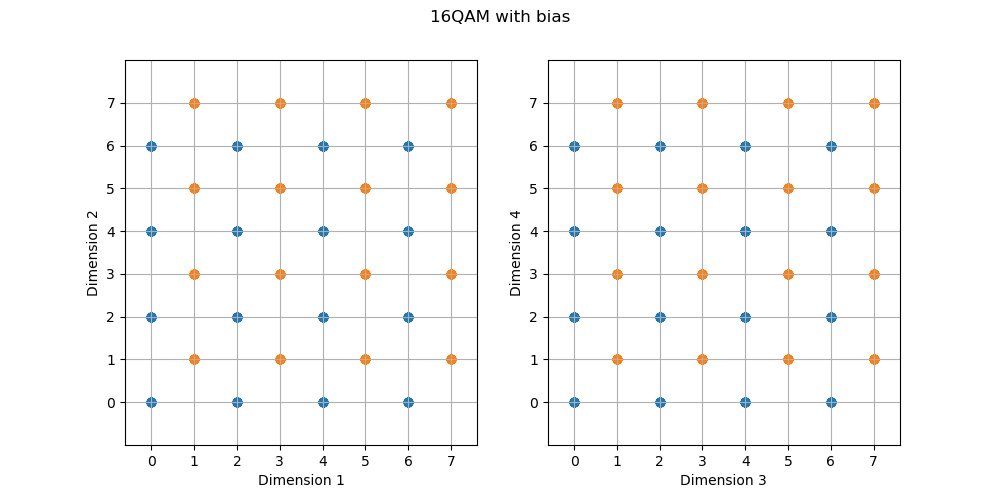
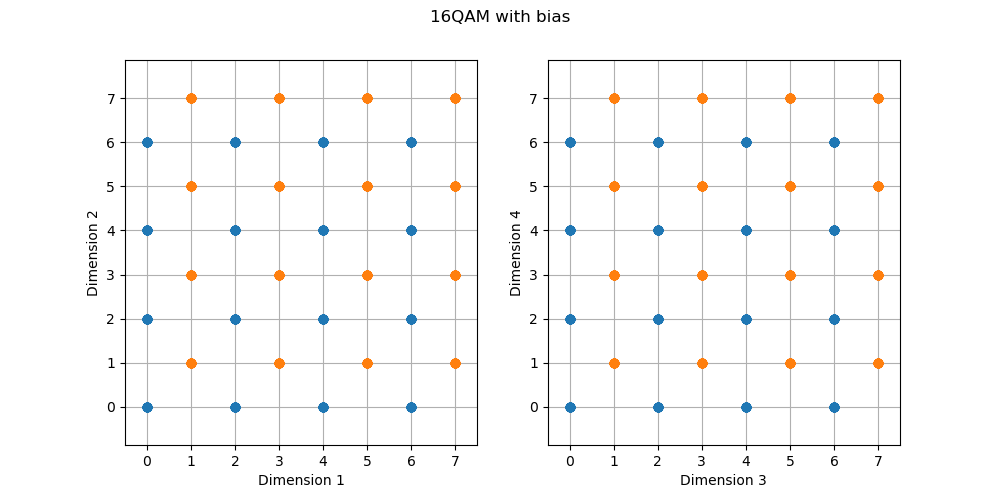
figure labels and 6D/8D figures
trying to use the [0,2) range for consistency but it makes the
calculations more annoying when you have to specify every coordinate in
terms of 1/2, will have to think how I want to do that.

Main update is the img/8d.py, adds a view of a full 8D constellation
design using different shapes/colours/sizes, it is a little hard to
understand but not terribly.

I'd like to update the 8D to have more clear indicators from each bit
instead of pairing up the bits to get two 4-way choices but can't think
of a clear way to deal yet.

diff --git a/index.html b/index.html
@@ -30,9 +30,9 @@
 <p>The second interesting result is that an inifinite lattice in 4D, each codeword has 24 nearest neighbours which is the densest possible structure in 4D. To show this result, imagine the original hypercube. The point in the middle will has all 16 vertices as nearest neighbours
  (each coordinate differs by +-1 in any combination of +s and -s) and in an extended lattice there are valid codewords by differing a single dimension by 2, so (+2,0,0,0), (-2,0,0,0), (0,+2,0,0), (0,-2,0,0), (0,0,+2,0), (0,0,-2,0), (0,0,0,+2), (0,0,0,-2) which is 8 additional</p>
 <h2>A more systematic structure for transmission</h2>
-<p>So far I've shown a structure that is good for transmission but can't easily be extended and shown the underlying 4D lattice is optimal in terms of density, but this doesn't show a clear way to extend to other constellations. Instead of using 2 different bit mappings, one using even coordinates and another using odd coordinates, instead we can use a common 'seed' mapping and use a single bit that decides whether to offset the coordinate of the codeword by (+1,+1,+1,+1). if we use 16QAM as our seed constellation we'd end up with this constellation:</p>
-<p>a<img alt="16 QAM with bias" src="./img/16qambias.png" /></p>
-<p>This would transmit 9 bits per 4 dimensions having slightly higher throughput compared to 16QAM on its own but also requires more energy. I won't analyse this structure specifically in depth but this is the first step to expanding to higher dimensions.</p>
+<p>So far I've shown a structure that is good for transmission but can't easily be extended and shown the underlying 4D lattice is optimal in terms of density, but this doesn't show a clear way to extend to other constellations. For more systematic constellation design I will only create latices that have nearest neighbour of 1 unit and use 4QAM as my 'seed' constellation. By using a 4QAM constellation and optionally shifting all 4 dimensions by 1/2 units we get a mapping that looks like this:</p>
+<p><img alt="16 QAM with bias" src="./img/pam2bias.png" /></p>
+<p>This will transmit 5 bits every 4 dimensions and every point is at least 1 unit away from any other point, either a single dimension shifting by 1 or all 4 dimensions shifting by 1/2. </p>
 <h3>Decoding</h3>
 <p>As long as the received vector is within the convex hull of the constellation it is trivial to determine which 'box' (region seperated by grid lines) the received vector is in as it is solely determined by the integer part of the vector coordinates, then we could enumerate all the valid codewords that touch that box which in the 4D case would be a red codeword and a blue codeword and then check which of those viable codewords are closer. Better decoder designs may exist but this is the approach used in my research. When a vector is outside the convex hull of the constellation currently I am brute-force checking all points in the constellation as I haven't analysed more efficient techniques yet. </p>
 <h2>extending to higher dimensions</h2>
@@ -50,27 +50,37 @@
 </ul>
 <p>which have been chosen specifically to be easy to visualize when plotting as a series of three 2D plots:</p>
 <p><img alt="thingy" src="./img/shapesin6d.png" /></p>
-<p>This could be used as a constellation of its own, effectively transmitting 2 bits every 6 dimensions, but the advantage is that this can be layered on top of existing QAM constellations like the previous examples. if we use 16QAM as our 'seed', meaning we encode 12 bits as 3 16QAM symbols and then have an additional 2 bits to bias the 6D point by one of the bias vectors we get the following constellation:</p>
-<p><img alt="6d16QAMbias" src="./img/6d16QAMbias.png" /></p>
-<p>You may notice this mapping looks a lot like 64QAM, so our 14bit/6D constellation could be interpreted as a block encoding on 18bit/6D of 64QAM with rate of 14/18=7/9. However unlike block codes that primarily use hamming distance to decode a transmitted signal this mapping is structured in a way that would allow efficient and more optimal decoding as I will demonstrate below.</p>
+<p>This could be used as a constellation of its own, effectively transmitting 2 bits every 6 dimensions, but the advantage is that this can be layered on top of existing QAM constellations like the previous examples. Using the 4QAM seed we can get a constellation such as this:</p>
+<p><img alt="6d16QAMbias" src="./img/sixDcase.png" /></p>
+<p>You may notice this mapping looks a lot like 16QAM, so our 8bit/6D constellation could be interpreted as a block encoding on 12bit/6D of 16QAM with rate of 8/12=2/3. However unlike block codes that primarily use hamming distance to decode a transmitted signal this mapping is structured in a way that would allow efficient and more optimal decoding as I will demonstrate below.</p>
 <p>For the demonstration I will use 4QAM as our seed instead of 16QAM we get a smaller constellation which can simplify the example.</p>
 <p><img alt="4QAM modulated by tetrahedrons in 6D " src="./img/4qambias6d.png" /></p>
 <p>Our transmission strategy will send 8 bits, the first 6 get mapped to each dimension individually multiplied by 2, then the last 2 are used to generate a bias vector using the above linear code and added to the coordinate found by the first 6 bits. So the message (11111100) correspond to the blue point at (3,3,3,3,3,3).</p>
 <p>So we will treat this as a 16QAM constellation with grey mapping (<strong>TODO: add binary labels to the points</strong>) 
-If our grey mapping maps the vector coordinates to bit sequences: 0-&gt;00, 1-&gt;01, 2-&gt;11, 3-&gt;10. so our codeword at (3,3,3,3,3,3) corresponds to the 16QAM message of [1111 1111 1111].</p>
-<p>Then suppose our noise vector is [0, +0.6, +0.1, +0.6, 0, +0.6] resulting in the purple point in the above figure. Decoding as 16QAM it will be very certain the byte sequence is 1110 1110 1110, this is not a valid codeword but the middle graph's X position (dimension 3) can vary to get 2 other valid codewords that are both green.</p>
+If our grey mapping maps the vector coordinates to bit sequences: 0-&gt;00, 1-&gt;01, 2-&gt;11, 3-&gt;10. so our codeword at (3,3,3,3,3,3)/2 corresponds to the 16QAM message of [1111 1111 1111].</p>
+<p>Then suppose our noise vector is [0, +0.3, +0.05, +0.3, 0, +0.3] resulting in the purple point in the above figure. Decoding as 16QAM it will be very certain the byte sequence is 1110 1110 1110, this is not a valid codeword but the middle graph's X position (dimension 3) can vary to get 2 other valid codewords that are both green.</p>
 <ul>
-<li>1110 0110 1110 at coordinate (2,3, 1,3, 2,3)</li>
-<li>1110 1010 1110 at coordinate (2,3, 3,3, 2,3)</li>
+<li>1110 0110 1110 at coordinate (2,3, 1,3, 2,3)/2</li>
+<li>1110 1010 1110 at coordinate (2,3, 3,3, 2,3)/2</li>
 </ul>
-<p>Both of these codewords only vary from the received code by only 2 bits while the original transmitted message differs by 3 bits, however the euclidean distance to the original codeword is closer than both green points. If we calculate the distance from the point (2,3,3,3,2,3) we get:</p>
+<p>Both of these codewords only vary from the received code by only 2 bits while the original transmitted message differs by 3 bits, however the euclidean distance to the original codeword is closer than both green points. If we calculate the distance from the point (2,3,3,3,2,3)/2 we get:</p>
 <p><code>(2, 3  , 3  , 3  , 2, 3) 
  - (2, 2.6, 2.1, 2.6, 2, 2.6)
  = (0, 0.4, 0.9, 0.4, 0, 0.4)
  length is sqrt(3*0.4^2 + 0.9^2) = sqrt(1.29)</code></p>
 <p>Where as the length of the noise vector to the original message is sqrt(3*0.6^2 + 0.1^2) = sqrt(1.09). This shows that the codeword with closest hamming distance is not necessarily the same as the codeword with closest euclidean distance. The goal of this research is to analyse structures where we can quickly determine a relatively small set of viable codewords to check using euclidean distances.</p>
 <h3>biassing in higher dimensions</h3>
-<p>In any arbitrary dimensionality N, we can choose a QAM seed and find a linear binary code with minimum hamming distance 4, so a code with parameters (N,k,4) where k is as high as possible (or following an easy to decode code structure like Reed-Muller codes) then we can compose them to form a new constellation where most of the bits are encoded directly as QAM and the rest generate a bias vector where each coordinate is half the length of the original QAM (we've been assuming the QAM is always 2 units and bias is 1 unit previously but this isn't even strictly necessary) to generate valid codewords. When decoding the bias structure essentially increases the QAM modulation by 1.</p>
+<p>In any arbitrary dimensionality N, we can find a linear binary code with minimum hamming distance 4 - a code with parameters (N,k,4) for some k - then we can make a new transmission scheme of N+k bits where the first N bits are mapped to each dimension directly (coordinate 0 or 1) and the remaining k bits are fed through the (N,k,4) binary code and the resulting binary vector is halved (mapped to coordinates 0 and 1/2) and added to the coordinate from the N bits. this will produce a structure much like a block code applied to 16QAM.</p>
+<p>For instance in 8 dimensions we can use this (8,4,4) code:</p>
+<ul>
+<li>1000 0111</li>
+<li>0100 1011</li>
+<li>0010 1101</li>
+<li>0001 1110</li>
+</ul>
+<p>to produce a 12 bit / 8D code such as this:</p>
+<p><img alt="8D case with different colours and shapes" src="img/8d.png" /></p>
+<p>The first 8 bits of a message map directly to shifting each of the 8 dimensions, then the first 2 bits of the modulation determine the color (00=red, 01=blue, 10=orange, 11=green) and the second 2 bits determine shape (00=circle, 01=star, 10=square, 11=diamond) to determine where the specific codeword that is transmitted is located.</p>
 <h2>Higher order modulation.</h2>
 <p>When we get up to 16 dimensions we have yet another oppertunity. Similarly to how we could fit a new point in a 4D hypercube, in 16 dimensions the coordinate with all 16 entries of 1/2 will be 2 units away from the origin as well as every possible point that falls on a lattice point from the first order modulation used above. This means we can layer this independently using the exact same construction as a lienar block code with minimum distance of 16 in however many dimensions we have.</p>
 <p>So we can imagine a constellation in N dimensions by taking the first N bits and map them to a 4*I generating matrix, that is each element when set to 1 moves in the corresponding dimension 4 units. Then the next set of bits use a linear block code of distance 4 and size N to determine which dimensions to move 2 units in. Then a third layer with size N and distance 16 that moves in 1 unit. This becomes a lattice consistent with 64 QAM and forms an extremely dense lattice. (now that we doubled the lengths so we didn't have to deal with lengths of 1/2 every lattice point is 4 units away instead of 2 as it was previously) this construction still strictly maintains the property that every single codeword is a minimum of 4 units away, equivelent to our original 4QAM constellation but our throughput can achieve comparable rates to 2/3 of 64QAM.</p>

diff --git a/img/plotutil.py b/img/plotutil.py
@@ -22,17 +22,23 @@ class HighDimScatter:
             ax.set_ylabel(f'Dimension {2 * idx + 2}')
             #ax.set_title(f'Dim {2 * idx + 1} and {2 * idx + 2}')
             ax.axis('equal')
-            ax.axis([min(grid) - 1, max(grid) + 1] * 2)
+            ax.axis([min(grid)-0.5, max(grid)+0.5] * 2)
+            #ax.margins(1)
             ax.grid(True)
-            ax.set_xticks(grid)
-            ax.set_yticks(grid)
+            if isinstance(grid, dict):
+                ax.set_xticks(list(grid.keys()), list(grid.values()))
+                ax.set_yticks(list(grid.keys()), list(grid.values()))
+            else:
+                ax.set_xticks(grid)
+                ax.set_yticks(grid)
 
     def scatter(self, points, **kwargs):
+        kwargs.setdefault("marker", "o")
         coord_vectors = list(zip(*points))
-
+        assert len(coord_vectors) == self.num_dimensions, "scattering {} dimensions".format(len(coord_vectors))
         # Loop over subplots and call scatter on each one
         for idx, ax in enumerate(self.axs):
-            ax.scatter(coord_vectors[2 * idx], coord_vectors[2 * idx + 1], **kwargs)
+            ax.plot(coord_vectors[2 * idx], coord_vectors[2 * idx + 1], linestyle="", **kwargs)
 
     def save(self):
         self.fig.savefig(stdout.buffer, format='png')

diff --git a/img/8d.py b/img/8d.py
@@ -1,0 +1,37 @@
+from plotutil import HighDimScatter
+import itertools
+bases = [
+    0b11110000,
+    0b10011100,
+    0b00111010,
+    0b00001111,
+]
+bases = [
+    0b10000111,
+    0b01001011,
+    0b00101101,
+    0b00011110,
+    ]
+
+QAMpoints = list(itertools.product([0,1], repeat=8))
+
+fig = HighDimScatter(8, "test", {i/2:f"{i}/2" for i in range(4)})
+
+for bias_bits in reversed(range(2**len(bases))):
+    bias = 0
+    for pos in range(len(bases)):
+        if bias_bits & (2**pos):
+            bias ^= bases[pos]
+    bias = tuple(map(int, f"{bias:08b}"))
+    [a,b,c,d] = map(int, f"{bias_bits:04b}")
+    XXX = [tuple(p+q/2 for p,q in zip(qam,bias)) for qam in QAMpoints]
+    #raise Exception(len(list(zip(*XXX))))
+    fig.scatter(XXX,
+                marker=  'o*sD'[a*2+b],
+                markersize=6*(c*2+d+a*0.5+2),
+                markeredgecolor = ["red","blue","orange","green"][c*2+d],
+                
+                markerfacecolor="none")
+
+
+fig.save()

diff --git a/img/4qambias6d.py b/img/4qambias6d.py
@@ -1,13 +1,5 @@
-from shapesin6d import visual_bias_vectors_6d
-from plotutil import HighDimScatter
-import itertools
+from sixDcase import fig
 
-QAM4points = list(itertools.product([0, 2], repeat=2))
-
-fig = HighDimScatter(6, "4QAM biassed in 6d", range(4))
-for bias in visual_bias_vectors_6d:
-    fig.scatter([tuple(a+b for a,b in zip(bias,p*3)) for p in QAM4points])
-
-fig.scatter([(2,2.6, 2.1,2.6, 2,2.6)])
+fig.scatter([(2/2,2.6/2, 2.1/2,2.6/2, 2/2,2.6/2)])
 
 fig.save()

diff --git a/img/pam2bias.py b/img/pam2bias.py
@@ -1,0 +1,12 @@
+import itertools
+from plotutil import HighDimScatter
+# Create meshgrid using itertools.product
+QAM16points = list(itertools.product([0, 1], repeat=4))
+
+fig = HighDimScatter(4, "4D 2-pam / 4QAM with bias", {i/2:f"{i}/2" for i in range(4)})
+def add_one_to_each(point):
+    return tuple(x+1/2 for x in point)
+fig.scatter(QAM16points)
+fig.scatter(list(map(add_one_to_each, QAM16points)))
+
+fig.save()

diff --git a/img/sixDcase.py b/img/sixDcase.py
@@ -1,0 +1,12 @@
+from shapesin6d import visual_bias_vectors_6d
+from plotutil import HighDimScatter
+import itertools
+
+QAM4points = list(itertools.product([0, 1], repeat=2))
+
+fig = HighDimScatter(6, "4QAM biassed in 6d", {i/2:f"{i}/2" for i in range(4)})
+for bias in visual_bias_vectors_6d:
+    fig.scatter([tuple(a/2+b for a,b in zip(bias,p*3)) for p in QAM4points])
+
+if __name__ == "__main__":
+    fig.save()

diff --git a/img/shapesin6d.py b/img/shapesin6d.py
@@ -8,8 +8,8 @@ visual_bias_vectors_6d = [
     (1,1,0,1,1,0)]
 if __name__ == "__main__":
 
-    fig = HighDimScatter(6, "tetrahedrons in 6d", range(2), figsize=3)
+    fig = HighDimScatter(6, "tetrahedrons in 6d", {0:"0", 0.5:"1/2"}, figsize=3)
     for x in visual_bias_vectors_6d:
-        fig.scatter([x])
+        fig.scatter([tuple(a/2 for a in x)])
 
     fig.save()

diff --git a/README.md b/README.md
@@ -35,13 +35,11 @@ The second interesting result is that an inifinite lattice in 4D, each codeword 
 
 ## A more systematic structure for transmission
 
-So far I've shown a structure that is good for transmission but can't easily be extended and shown the underlying 4D lattice is optimal in terms of density, but this doesn't show a clear way to extend to other constellations. Instead of using 2 different bit mappings, one using even coordinates and another using odd coordinates, instead we can use a common 'seed' mapping and use a single bit that decides whether to offset the coordinate of the codeword by (+1,+1,+1,+1). if we use 16QAM as our seed constellation we'd end up with this constellation:
+So far I've shown a structure that is good for transmission but can't easily be extended and shown the underlying 4D lattice is optimal in terms of density, but this doesn't show a clear way to extend to other constellations. For more systematic constellation design I will only create latices that have nearest neighbour of 1 unit and use 4QAM as my 'seed' constellation. By using a 4QAM constellation and optionally shifting all 4 dimensions by 1/2 units we get a mapping that looks like this:
 
-a![16 QAM with bias](./img/16qambias.png)
+![16 QAM with bias](./img/pam2bias.png)
 
-This would transmit 9 bits per 4 dimensions having slightly higher throughput compared to 16QAM on its own but also requires more energy. I won't analyse this structure specifically in depth but this is the first step to expanding to higher dimensions.
-
-
+This will transmit 5 bits every 4 dimensions and every point is at least 1 unit away from any other point, either a single dimension shifting by 1 or all 4 dimensions shifting by 1/2. 
 
 ### Decoding
 
@@ -66,12 +64,11 @@ which have been chosen specifically to be easy to visualize when plotting as a s
 
 ![thingy](./img/shapesin6d.png)
 
-This could be used as a constellation of its own, effectively transmitting 2 bits every 6 dimensions, but the advantage is that this can be layered on top of existing QAM constellations like the previous examples. if we use 16QAM as our 'seed', meaning we encode 12 bits as 3 16QAM symbols and then have an additional 2 bits to bias the 6D point by one of the bias vectors we get the following constellation:
+This could be used as a constellation of its own, effectively transmitting 2 bits every 6 dimensions, but the advantage is that this can be layered on top of existing QAM constellations like the previous examples. Using the 4QAM seed we can get a constellation such as this:
 
-![6d16QAMbias](./img/6d16QAMbias.png)
+![6d16QAMbias](./img/sixDcase.png)
 
-
-You may notice this mapping looks a lot like 64QAM, so our 14bit/6D constellation could be interpreted as a block encoding on 18bit/6D of 64QAM with rate of 14/18=7/9. However unlike block codes that primarily use hamming distance to decode a transmitted signal this mapping is structured in a way that would allow efficient and more optimal decoding as I will demonstrate below.
+You may notice this mapping looks a lot like 16QAM, so our 8bit/6D constellation could be interpreted as a block encoding on 12bit/6D of 16QAM with rate of 8/12=2/3. However unlike block codes that primarily use hamming distance to decode a transmitted signal this mapping is structured in a way that would allow efficient and more optimal decoding as I will demonstrate below.
 
 For the demonstration I will use 4QAM as our seed instead of 16QAM we get a smaller constellation which can simplify the example.
 
@@ -80,14 +77,14 @@ For the demonstration I will use 4QAM as our seed instead of 16QAM we get a smal
 Our transmission strategy will send 8 bits, the first 6 get mapped to each dimension individually multiplied by 2, then the last 2 are used to generate a bias vector using the above linear code and added to the coordinate found by the first 6 bits. So the message (11111100) correspond to the blue point at (3,3,3,3,3,3).
 
 So we will treat this as a 16QAM constellation with grey mapping (**TODO: add binary labels to the points**) 
-If our grey mapping maps the vector coordinates to bit sequences: 0->00, 1->01, 2->11, 3->10. so our codeword at (3,3,3,3,3,3) corresponds to the 16QAM message of [1111 1111 1111].
+If our grey mapping maps the vector coordinates to bit sequences: 0->00, 1->01, 2->11, 3->10. so our codeword at (3,3,3,3,3,3)/2 corresponds to the 16QAM message of [1111 1111 1111].
 
-Then suppose our noise vector is [0, +0.6, +0.1, +0.6, 0, +0.6] resulting in the purple point in the above figure. Decoding as 16QAM it will be very certain the byte sequence is 1110 1110 1110, this is not a valid codeword but the middle graph's X position (dimension 3) can vary to get 2 other valid codewords that are both green.
+Then suppose our noise vector is [0, +0.3, +0.05, +0.3, 0, +0.3] resulting in the purple point in the above figure. Decoding as 16QAM it will be very certain the byte sequence is 1110 1110 1110, this is not a valid codeword but the middle graph's X position (dimension 3) can vary to get 2 other valid codewords that are both green.
 
-- 1110 0110 1110 at coordinate (2,3, 1,3, 2,3)
-- 1110 1010 1110 at coordinate (2,3, 3,3, 2,3)
+- 1110 0110 1110 at coordinate (2,3, 1,3, 2,3)/2
+- 1110 1010 1110 at coordinate (2,3, 3,3, 2,3)/2
 
-Both of these codewords only vary from the received code by only 2 bits while the original transmitted message differs by 3 bits, however the euclidean distance to the original codeword is closer than both green points. If we calculate the distance from the point (2,3,3,3,2,3) we get:
+Both of these codewords only vary from the received code by only 2 bits while the original transmitted message differs by 3 bits, however the euclidean distance to the original codeword is closer than both green points. If we calculate the distance from the point (2,3,3,3,2,3)/2 we get:
 
 ```
    (2, 3  , 3  , 3  , 2, 3) 
@@ -100,7 +97,20 @@ Where as the length of the noise vector to the original message is sqrt(3*0.6^2 
 
 ### biassing in higher dimensions
 
-In any arbitrary dimensionality N, we can choose a QAM seed and find a linear binary code with minimum hamming distance 4, so a code with parameters (N,k,4) where k is as high as possible (or following an easy to decode code structure like Reed-Muller codes) then we can compose them to form a new constellation where most of the bits are encoded directly as QAM and the rest generate a bias vector where each coordinate is half the length of the original QAM (we've been assuming the QAM is always 2 units and bias is 1 unit previously but this isn't even strictly necessary) to generate valid codewords. When decoding the bias structure essentially increases the QAM modulation by 1.
+In any arbitrary dimensionality N, we can find a linear binary code with minimum hamming distance 4 - a code with parameters (N,k,4) for some k - then we can make a new transmission scheme of N+k bits where the first N bits are mapped to each dimension directly (coordinate 0 or 1) and the remaining k bits are fed through the (N,k,4) binary code and the resulting binary vector is halved (mapped to coordinates 0 and 1/2) and added to the coordinate from the N bits. this will produce a structure much like a block code applied to 16QAM.
+
+For instance in 8 dimensions we can use this (8,4,4) code:
+
+- 1000 0111
+- 0100 1011
+- 0010 1101
+- 0001 1110
+
+to produce a 12 bit / 8D code such as this:
+
+![8D case with different colours and shapes](img/8d.png)
+
+The first 8 bits of a message map directly to shifting each of the 8 dimensions, then the first 2 bits of the modulation determine the color (00=red, 01=blue, 10=orange, 11=green) and the second 2 bits determine shape (00=circle, 01=star, 10=square, 11=diamond) to determine where the specific codeword that is transmitted is located.
 
 ## Higher order modulation.
 
